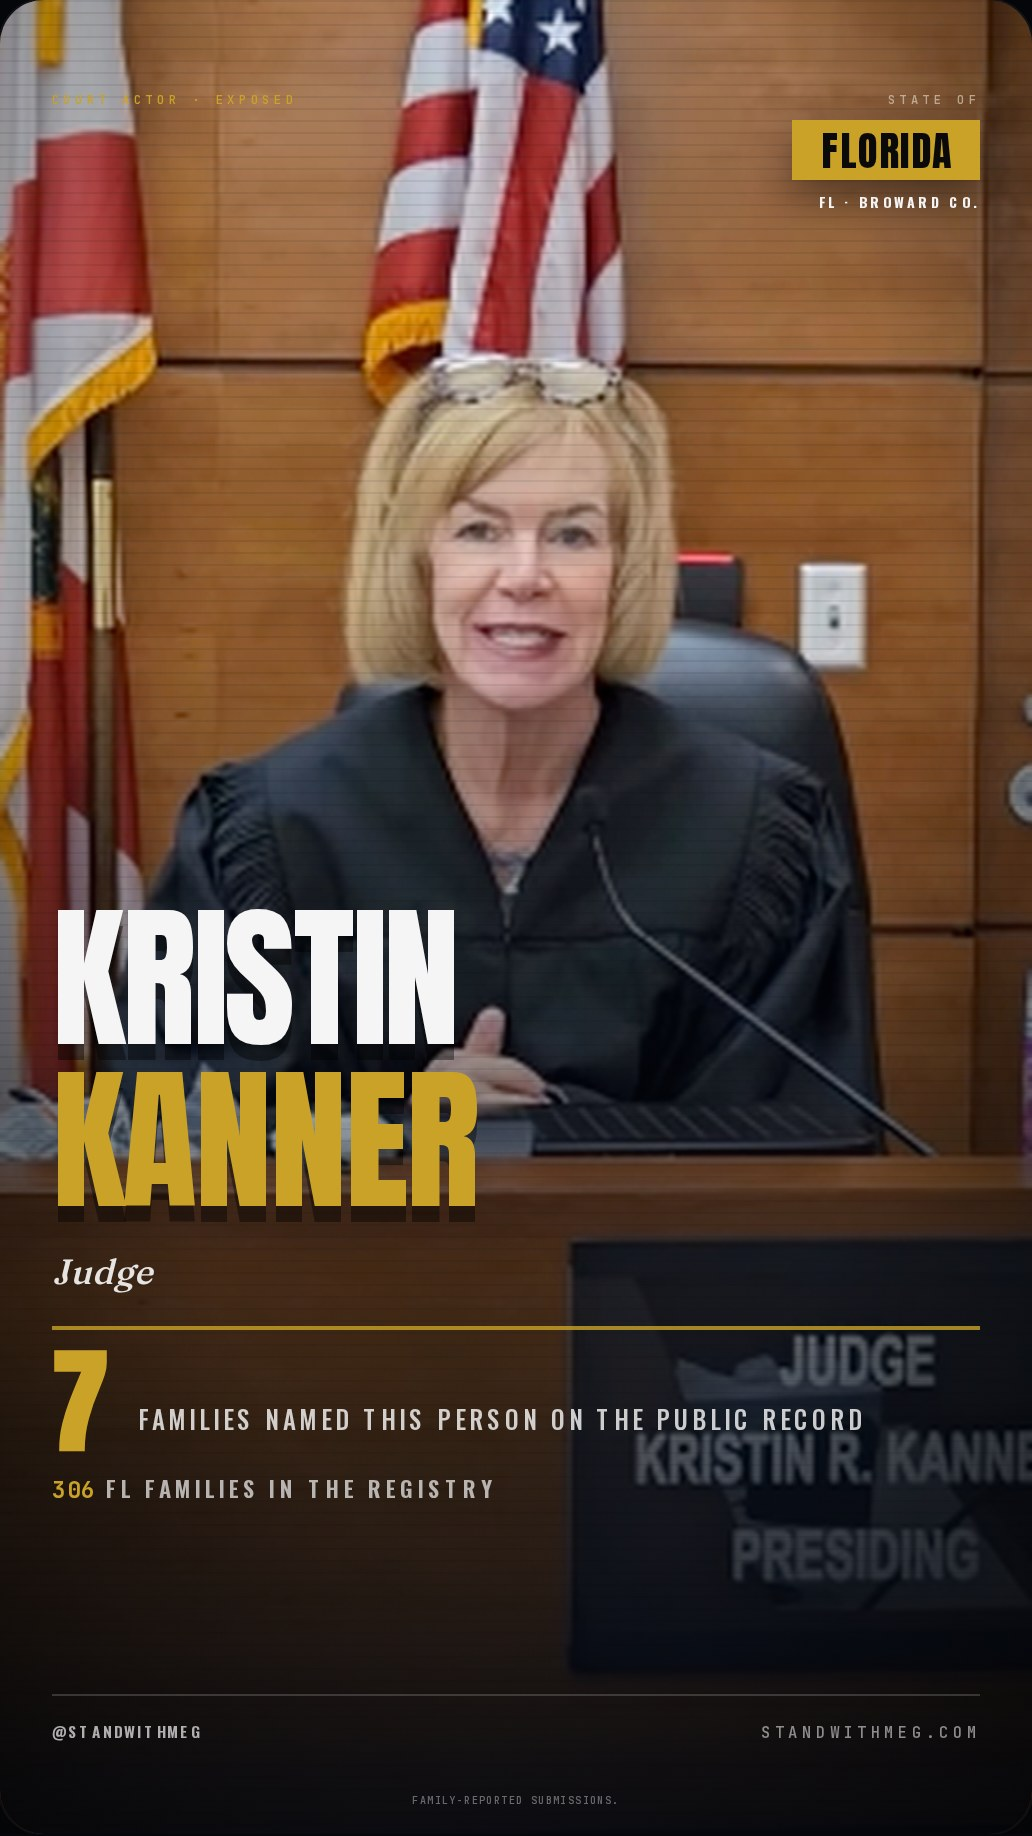
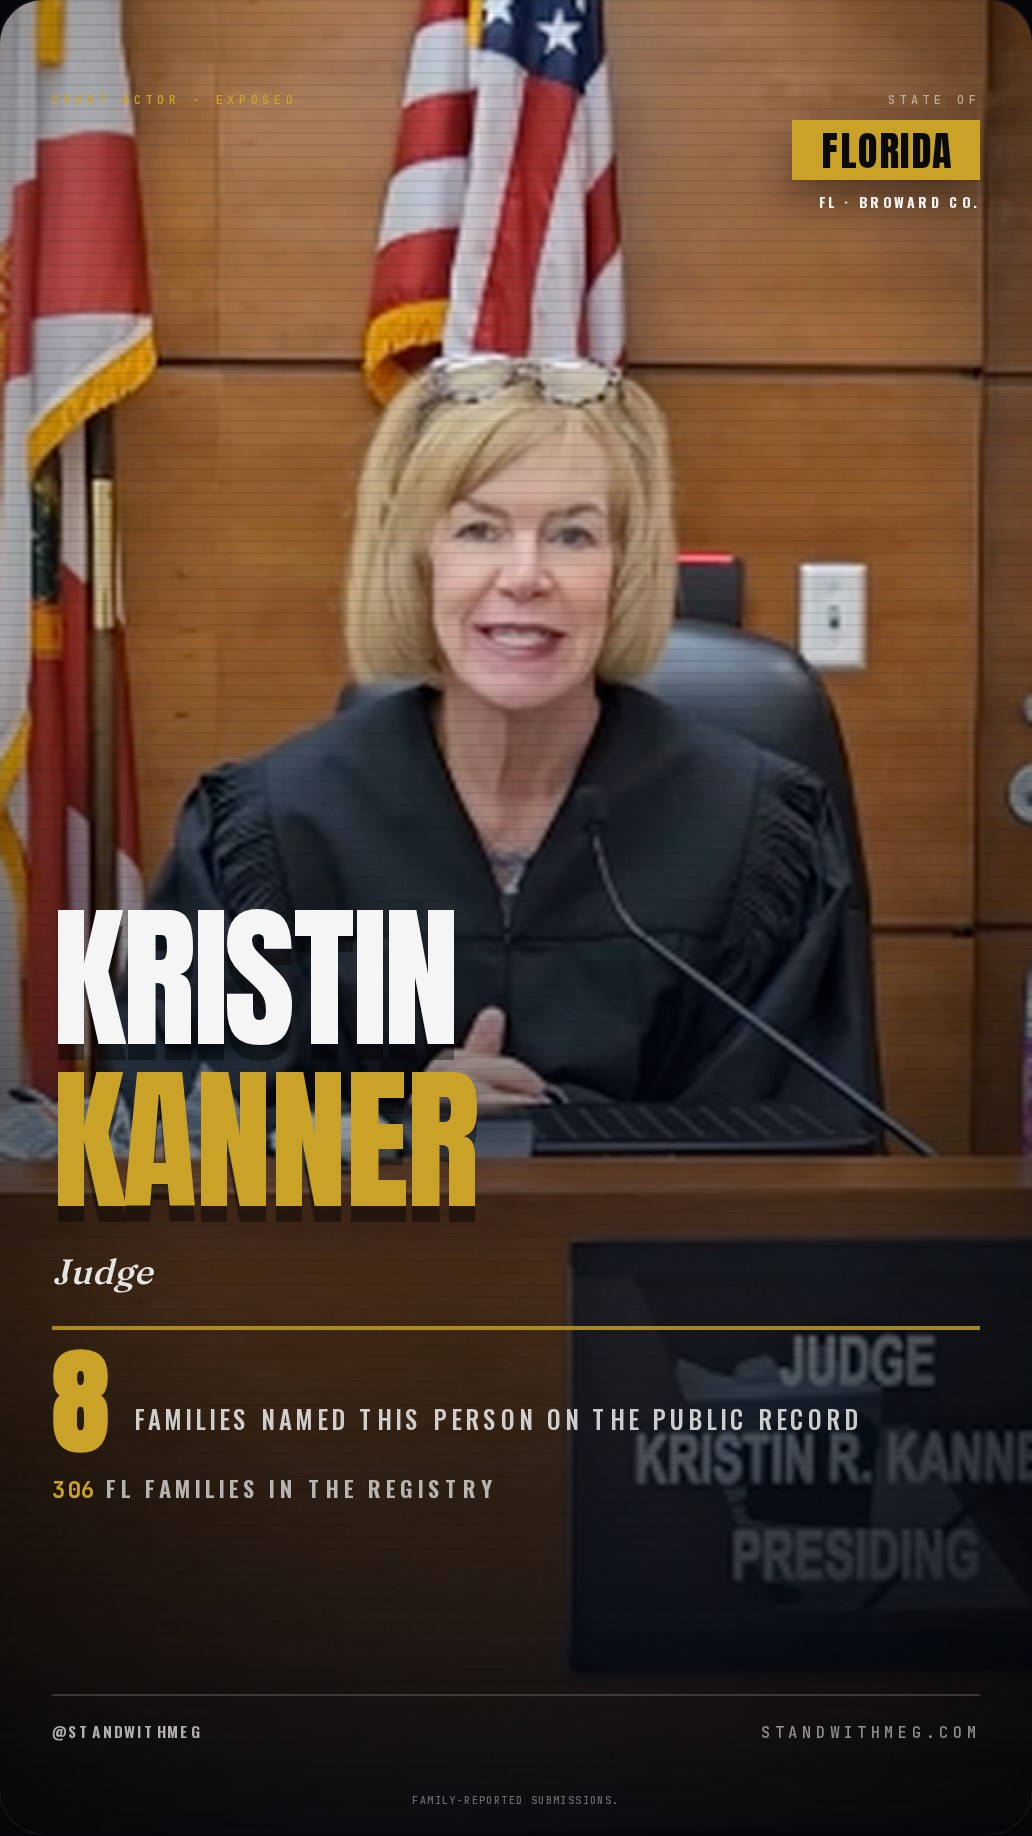
chore: auto-regenerate 10 report/share file(s) from live Supabase data

Changed region(s): [[0.031, 0.7451, 0.8372, 0.8072]]

diff --git a/public/court-actors/fl/kristin_kanner/share.html b/public/court-actors/fl/kristin_kanner/share.html
@@ -570,7 +570,7 @@ html,body { background:#06070A; color:var(--white); font-family:Inter,system-ui,
 <main class="share-scroll">
 <section class="phone-frame">
 <article class="frame frame-image" id="frame-01">
-  <img class="frame-img" src="frame-01.jpg?v=cede3d3808" alt="Kristin Kanner share slide 1 of 7">
+  <img class="frame-img" src="frame-01.jpg?v=f6801107af" alt="Kristin Kanner share slide 1 of 7">
 </article>
 
 <div class="frame-actions" aria-label="Frame 1 actions">
@@ -580,7 +580,7 @@ html,body { background:#06070A; color:var(--white); font-family:Inter,system-ui,
 </section>
 <section class="phone-frame">
 <article class="frame frame-image" id="frame-02">
-  <img class="frame-img" src="frame-02.jpg?v=01f2221dcb" alt="Kristin Kanner share slide 2 of 7">
+  <img class="frame-img" src="frame-02.jpg?v=ceb8f66840" alt="Kristin Kanner share slide 2 of 7">
 </article>
 
 <div class="frame-actions" aria-label="Frame 2 actions">
@@ -590,7 +590,7 @@ html,body { background:#06070A; color:var(--white); font-family:Inter,system-ui,
 </section>
 <section class="phone-frame">
 <article class="frame frame-image" id="frame-03">
-  <img class="frame-img" src="frame-03.jpg?v=f00e6714a1" alt="Kristin Kanner share slide 3 of 7">
+  <img class="frame-img" src="frame-03.jpg?v=3c40beda23" alt="Kristin Kanner share slide 3 of 7">
 </article>
 
 <div class="frame-actions" aria-label="Frame 3 actions">
@@ -610,7 +610,7 @@ html,body { background:#06070A; color:var(--white); font-family:Inter,system-ui,
 </section>
 <section class="phone-frame">
 <article class="frame frame-image" id="frame-05">
-  <img class="frame-img" src="frame-05.jpg?v=942fb366a8" alt="Kristin Kanner share slide 5 of 7">
+  <img class="frame-img" src="frame-05.jpg?v=2eb489f122" alt="Kristin Kanner share slide 5 of 7">
 </article>
 
 <div class="frame-actions" aria-label="Frame 5 actions">
@@ -620,7 +620,7 @@ html,body { background:#06070A; color:var(--white); font-family:Inter,system-ui,
 </section>
 <section class="phone-frame">
 <article class="frame frame-image" id="frame-06">
-  <img class="frame-img" src="frame-06.jpg?v=14a1606bfd" alt="Kristin Kanner share slide 6 of 7">
+  <img class="frame-img" src="frame-06.jpg?v=f31233a964" alt="Kristin Kanner share slide 6 of 7">
 </article>
 
 <div class="frame-actions" aria-label="Frame 6 actions">
@@ -630,7 +630,7 @@ html,body { background:#06070A; color:var(--white); font-family:Inter,system-ui,
 </section>
 <section class="phone-frame">
 <article class="frame frame-image" id="frame-07">
-  <img class="frame-img" src="frame-07.jpg?v=e974885a03" alt="Kristin Kanner share slide 7 of 7">
+  <img class="frame-img" src="frame-07.jpg?v=8e8c6e5ac5" alt="Kristin Kanner share slide 7 of 7">
 </article>
 
 <div class="frame-actions" aria-label="Frame 7 actions">
@@ -689,7 +689,7 @@ html,body { background:#06070A; color:var(--white); font-family:Inter,system-ui,
     <div class="display xl">KRISTIN<br><span class="gold">KANNER</span></div>
     <div class="f1-role">Judge</div>
     <div class="f1-report-count">
-      <b>7</b>
+      <b>8</b>
       <span>families named this person on the public record</span>
     </div>
     <div class="f1-state-count"><b>306</b> FL families in the Registry</div>
@@ -890,7 +890,7 @@ html,body { background:#06070A; color:var(--white); font-family:Inter,system-ui,
 
   <div class="frame-tag">COUNTED · PUBLIC RECORD</div>
   <div class="f5-stack">
-    <div class="f5-mega-number">5,420</div>
+    <div class="f5-mega-number">5,427</div>
     <div class="f5-mega-label">FAMILIES<br>NATIONWIDE</div>
     <div class="f5-italic">— and now global.</div>
     <div class="f5-pattern">
@@ -1029,7 +1029,7 @@ html,body { background:#06070A; color:var(--white); font-family:Inter,system-ui,
     <span class="gold">MEG.</span>
   </div>
   <div class="f7-cta-text">
-    Join over <b class="f7-count">5,420</b><br>
+    Join over <b class="f7-count">5,427</b><br>
     families nationwide &amp; global<br>
     exposing the truth.
   </div>
